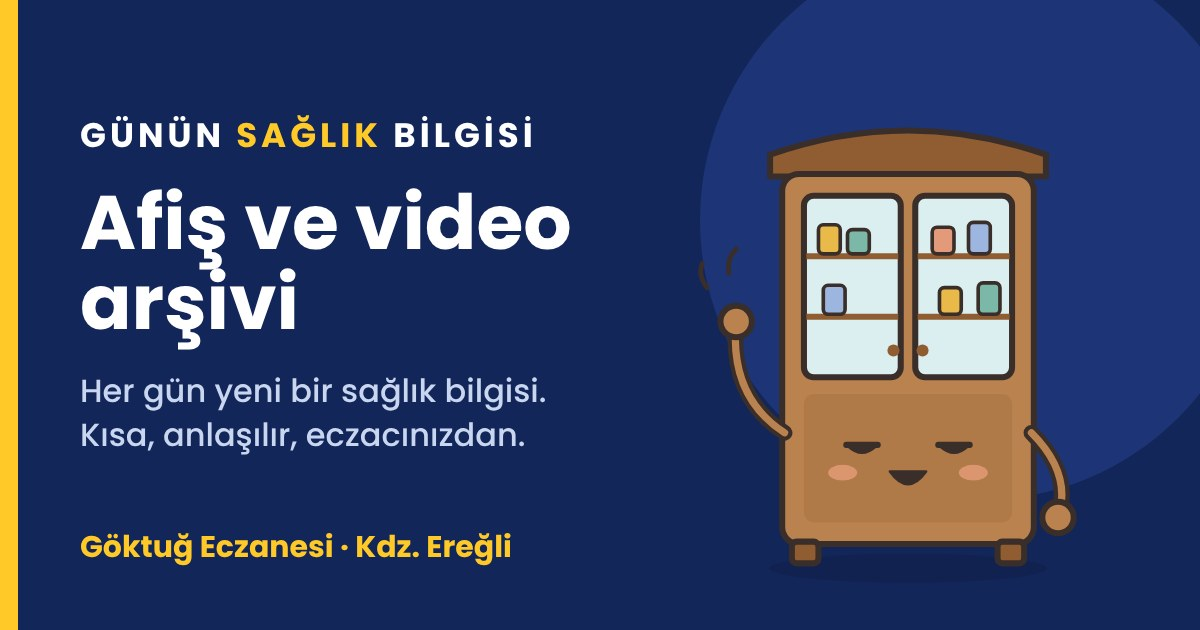
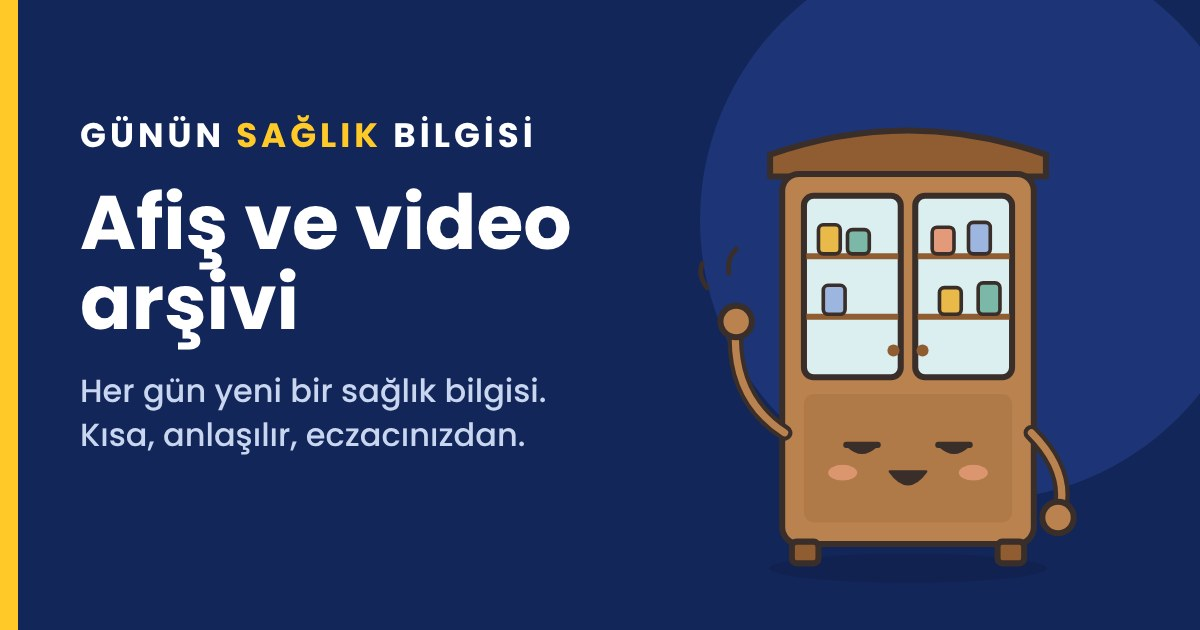
Önizleme kartından ve başlıktan eczane adını kaldır
Claude-Session: https://claude.ai/code/session_012pZnm4Wh3ymVpo3MkTkPZN

Changed region(s): [[0.0617, 0.8444, 0.4317, 0.9048]]

diff --git a/404.html b/404.html
@@ -3,14 +3,14 @@
 <head>
 <meta charset="utf-8">
 <meta name="viewport" content="width=device-width,initial-scale=1">
-<title>Günün Sağlık Bilgisi · Göktuğ Eczanesi</title>
-<meta name="description" content="Günün Sağlık Bilgisi afiş ve video arşivi. Göktuğ Eczanesi, Kdz. Ereğli.">
+<title>Günün Sağlık Bilgisi</title>
+<meta name="description" content="Günün Sağlık Bilgisi afiş ve video arşivi.">
 <meta property="og:type" content="website">
-<meta property="og:site_name" content="Göktuğ Eczanesi">
+<meta property="og:site_name" content="Günün Sağlık Bilgisi">
 <meta property="og:title" content="Günün Sağlık Bilgisi · Afiş ve video arşivi">
-<meta property="og:description" content="Her gün yeni bir sağlık bilgisi. Göktuğ Eczanesi, Kdz. Ereğli.">
+<meta property="og:description" content="Her gün yeni bir sağlık bilgisi. Kısa, anlaşılır, eczacınızdan.">
 <meta property="og:url" content="https://goktugeczanesi.github.io/">
-<meta property="og:image" content="https://goktugeczanesi.github.io/og.jpg">
+<meta property="og:image" content="https://goktugeczanesi.github.io/og.jpg?v=2">
 <meta property="og:image:width" content="1200">
 <meta property="og:image:height" content="630">
 <meta property="og:locale" content="tr_TR">

diff --git a/index.html b/index.html
@@ -3,14 +3,14 @@
 <head>
 <meta charset="utf-8">
 <meta name="viewport" content="width=device-width,initial-scale=1">
-<title>Günün Sağlık Bilgisi · Göktuğ Eczanesi</title>
-<meta name="description" content="Günün Sağlık Bilgisi afiş ve video arşivi. Göktuğ Eczanesi, Kdz. Ereğli.">
+<title>Günün Sağlık Bilgisi</title>
+<meta name="description" content="Günün Sağlık Bilgisi afiş ve video arşivi.">
 <meta property="og:type" content="website">
-<meta property="og:site_name" content="Göktuğ Eczanesi">
+<meta property="og:site_name" content="Günün Sağlık Bilgisi">
 <meta property="og:title" content="Günün Sağlık Bilgisi · Afiş ve video arşivi">
-<meta property="og:description" content="Her gün yeni bir sağlık bilgisi. Göktuğ Eczanesi, Kdz. Ereğli.">
+<meta property="og:description" content="Her gün yeni bir sağlık bilgisi. Kısa, anlaşılır, eczacınızdan.">
 <meta property="og:url" content="https://goktugeczanesi.github.io/">
-<meta property="og:image" content="https://goktugeczanesi.github.io/og.jpg">
+<meta property="og:image" content="https://goktugeczanesi.github.io/og.jpg?v=2">
 <meta property="og:image:width" content="1200">
 <meta property="og:image:height" content="630">
 <meta property="og:locale" content="tr_TR">

diff --git a/README.md b/README.md
@@ -1,3 +1,3 @@
-# Göktuğ Eczanesi
+# Günün Sağlık Bilgisi
 
-Günün Sağlık Bilgisi arşivine yönlendiren kısa adres ve WhatsApp önizleme kartı.
+Arşive yönlendiren kısa adres ve WhatsApp önizleme kartı.
